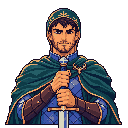
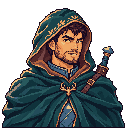
v62: retire Dot, Gliss, Gleam, Ivy, Rue; Tida's first portrait back
Claude-Session: https://claude.ai/code/session_019G5bQC3KGAYpQSZdre1Ejx

diff --git a/js/01-data.js b/js/01-data.js
@@ -214,7 +214,7 @@ HEROES.push(
   {id:'nessa_holt',retired:true,name:'Nessa Holt',fac:'rangers',type:'Might',st:[2,1,1,2],ab:'Trail Surveyor',ad:'+10% movement, and Thornguard +2 defense.',sk:['forcedmarch'],sp:[],fx:{mpPct:10,unitDef:{thorn:2}}},
   {id:'reedcall',name:'Crestwind',fac:'rangers',type:'Might',st:[2,1,1,1],ab:'Resonant Call',ad:'Reedbows +2 shots and +1 damage.',sk:['steadyaim'],sp:[],fx:{unitShots:{reed:2},unitDmgFlat:{reed:1}}},
   {id:'sera_venn',name:'Sera Venn',fac:'wizards',type:'Magic',st:[0,1,2,2],ab:'Bell Mage',ad:'Your whole army +1 morale.',sk:['sorcery'],sp:['rally'],fx:{morale:1}},
-  {id:'gliss',name:'Gliss',fac:'wizards',type:'Magic',st:[0,1,3,2],ab:'Stained-Glass Caster',ad:'Every spell costs 1 less mana.',sk:['arcane'],sp:['chain'],fx:{manaCut:1}},
+  {id:'gliss',retired:true,name:'Gliss',fac:'wizards',type:'Magic',st:[0,1,3,2],ab:'Stained-Glass Caster',ad:'Every spell costs 1 less mana.',sk:['arcane'],sp:['chain'],fx:{manaCut:1}},
   {id:'murmur',tav:true,name:'Hush',fac:'necro',type:'Magic',st:[0,1,2,2],ab:'Veiled Shadow',ad:'Weaken drains 50% more attack, and +1 vision.',sk:['farsight'],sp:['weaken'],fx:{weakenPct:1.5,vision:1}},
   {id:'rattleclaw',name:'Rattleclaw',fac:'necro',type:'Might',st:[2,1,1,1],ab:'Fossil Raptor',ad:'Skeletons +2 attack and +1 speed.',sk:['bladework'],sp:[],fx:{unitAtk:{skeleton:2},unitSpd:{skeleton:1}}},
   {id:'silka',name:'Violet',fac:'centaurs',type:'Magic',st:[0,1,2,2],ab:'Silk Keeper',ad:'Entangle costs half and lasts 1 round longer.',sk:['meditation'],sp:['entangle'],fx:{halfCost:'entangle',entangleExtra:1}},
@@ -233,13 +233,13 @@ HEROES.push(
   {id:'livingston_cyborg',retired:true,name:'Livingston',fac:'elves',type:'Might',st:[2,1,1,2],ab:'Gadgeteer',ad:'Your shooters deal 10% more damage. With his partner Livingston in your party, your whole army +1 morale.',sk:['steadyaim'],sp:[],fx:{rangedPct:0.10,partner:'livingston',partnerMorale:1}},
   {id:'enzo',name:'Enzo',fac:'dwarves',type:'Might',st:[2,2,1,1],ab:'Powered Suit',ad:'Ram Riders +2 attack and +2 defense.',sk:['shieldcraft'],sp:[],fx:{unitAtk:{ramrider:2},unitDef:{ramrider:2}}},
   {id:'axel',tav:true,name:'Axel',fac:'merfolk',type:'Magic',st:[0,1,2,2],ab:'Tide Guide',ad:'Sirens +2 growth per week and +1 speed.',sk:['meditation'],sp:['mend'],fx:{growth:{siren:2},unitSpd:{siren:1}}},
-  {id:'dot',tav:true,name:'Dot',fac:'rangers',type:'Might',st:[2,1,1,2],ab:'Mantis Courier',ad:'+15% movement, and Thornguard +1 attack.',sk:['forcedmarch'],sp:[],fx:{mpPct:15,unitAtk:{thorn:1}}},
+  {id:'dot',retired:true,tav:true,name:'Dot',fac:'rangers',type:'Might',st:[2,1,1,2],ab:'Mantis Courier',ad:'+15% movement, and Thornguard +1 attack.',sk:['forcedmarch'],sp:[],fx:{mpPct:15,unitAtk:{thorn:1}}},
   {id:'gale',tav:true,name:'Gale',fac:'wizards',type:'Magic',st:[0,1,2,2],ab:'Weather Mage',ad:'Earth Elementals +2 defense and +1 speed.',sk:['sorcery'],sp:['squall'],fx:{unitDef:{earthel:2},unitSpd:{earthel:1}}},
   {id:'vera',name:'Vera',fac:'wizards',type:'Might',st:[2,2,1,1],ab:'Rune Shield',ad:'Apprentice Mages +2 attack and +2 defense.',sk:['shieldcraft'],sp:[],fx:{unitAtk:{apprentice:2},unitDef:{apprentice:2}}},
   {id:'remy',name:'Remy',fac:'wizards',type:'Might',st:[3,1,1,1],ab:'Spellblade',ad:'Archmages +2 attack and +1 speed.',sk:['command'],sp:[],fx:{unitAtk:{magus:2},unitSpd:{magus:1}}},
   {id:'ada',tav:true,name:'Ada',fac:'wizards',type:'Might',st:[2,2,1,1],ab:'Owl Knight',ad:'Owl Familiars +2 attack and +2 defense.',sk:['farsight'],sp:[],fx:{unitAtk:{owl:2},unitDef:{owl:2}}},
   {id:'mara',tav:true,name:'Mara',fac:'necro',type:'Might',st:[2,2,1,1],ab:'Gravekeeper',ad:'Zombies +2 attack and +2 defense, and +1 vision.',sk:['farsight'],sp:[],fx:{unitAtk:{zombie:2},unitDef:{zombie:2},vision:1}},
-  {id:'ivy',name:'Ivy',fac:'elves',type:'Might',st:[3,1,1,1],ab:'Archer-Captain',ad:'Longbow Rangers +2 attack and +1 speed.',sk:['steadyaim'],sp:[],fx:{unitAtk:{longbow:2},unitSpd:{longbow:1}}},
+  {id:'ivy',retired:true,name:'Ivy',fac:'elves',type:'Might',st:[3,1,1,1],ab:'Archer-Captain',ad:'Longbow Rangers +2 attack and +1 speed.',sk:['steadyaim'],sp:[],fx:{unitAtk:{longbow:2},unitSpd:{longbow:1}}},
   {id:'lune',name:'Lunt',fac:'elves',type:'Magic',st:[0,1,2,3],ab:'Moon-Singer',ad:'Sprites +2 speed, and your whole army +1 luck.',sk:['meditation'],sp:['mend'],fx:{unitSpd:{sprite:2},luck:1}},
   {id:'hart',tav:true,name:'Hart',fac:'elves',type:'Might',st:[2,2,1,1],ab:'Stag Ranger',ad:'+10% movement, and Giant Eagles +2 attack.',sk:['forcedmarch'],sp:[],fx:{mpPct:10,unitAtk:{eagle:2}}},
   {id:'orla',tav:true,name:'Orla',fac:'dwarves',type:'Magic',st:[0,2,2,2],ab:'Rune Priest',ad:'Gem Golems +2 defense, and Mend heals 50% more.',sk:['meditation'],sp:['mend'],fx:{unitDef:{golem:2},mendPct:1.5}},
@@ -252,10 +252,10 @@ HEROES.push(
   {id:'midge',tav:true,name:'Midge',fac:'rangers',type:'Magic',st:[0,1,2,3],ab:'Moth Dyer',ad:'Moth Seers +2 attack and +1 speed.',sk:['meditation'],sp:['mend'],fx:{unitAtk:{moth:2},unitSpd:{moth:1}}},
   {id:'mags_and_mae',tav:true,name:'Mags & Mae',fac:'wizards',type:'Magic',st:[0,1,3,2],ab:'Twin Astronomers',ad:'Storm Elementals +2 attack and +1 speed.',sk:['arcane'],sp:['swift'],fx:{unitAtk:{stormel:2},unitSpd:{stormel:1}}},
   {id:'bloop',tav:true,name:'Bloop',fac:'wizards',type:'Magic',st:[0,1,2,3],ab:'Fishbowl Sage',ad:'Owl Familiars +3 growth per week and +1 speed.',sk:['learning'],sp:['ember'],fx:{growth:{owl:3},unitSpd:{owl:1}}},
-  {id:'gleam',tav:true,name:'Gleam',fac:'wizards',type:'Magic',st:[0,2,2,2],ab:'Golden Ooze',ad:'+150 gold a day, and Earth Elementals +1 defense.',sk:['estates'],sp:['chain'],fx:{goldDay:150,unitDef:{earthel:1}}},
+  {id:'gleam',retired:true,tav:true,name:'Gleam',fac:'wizards',type:'Magic',st:[0,2,2,2],ab:'Golden Ooze',ad:'+150 gold a day, and Earth Elementals +1 defense.',sk:['estates'],sp:['chain'],fx:{goldDay:150,unitDef:{earthel:1}}},
   {id:'odo_and_otto',tav:true,name:'Odo & Otto',fac:'necro',type:'Might',st:[3,2,0,1],ab:'Two-Headed Undertakers',ad:'Skeletons +2 attack and +2 defense.',sk:['bladework'],sp:[],fx:{unitAtk:{skeleton:2},unitDef:{skeleton:2}}},
   {id:'aster_and_briar',tav:true,name:'Aster & Briar',fac:'elves',type:'Magic',st:[0,2,2,2],ab:'Seed Keepers',ad:'Grove Wardens +3 growth per week and +1 defense.',sk:['meditation'],sp:['mend'],fx:{growth:{dryad:3},unitDef:{dryad:1}}},
-  {id:'rue',tav:true,name:'Rue',fac:'elves',type:'Magic',st:[0,1,2,3],ab:'Sunflower Witch',ad:'Mend heals 50% more, and your whole army +1 luck.',sk:['fortune'],sp:['mend'],fx:{mendPct:1.5,luck:1}},
+  {id:'rue',retired:true,tav:true,name:'Rue',fac:'elves',type:'Magic',st:[0,1,2,3],ab:'Sunflower Witch',ad:'Mend heals 50% more, and your whole army +1 luck.',sk:['fortune'],sp:['mend'],fx:{mendPct:1.5,luck:1}},
   {id:'ned_and_nat',tav:true,name:'Ned & Nat',fac:'dwarves',type:'Might',st:[2,2,1,1],ab:'Twin Stonecutters',ad:'Dwarf Crossbowmen +2 attack and +2 defense.',sk:['shieldcraft'],sp:[],fx:{unitAtk:{bolt:2},unitDef:{bolt:2}}},
   {id:'spike',tav:true,name:'Spike',fac:'dwarves',type:'Might',st:[2,3,0,1],ab:'Porcupine Armorer',ad:'Your whole army +1 defense, and Dwarf Paladins +1 attack.',sk:['shieldcraft'],sp:[],fx:{armyDef:1,unitAtk:{paladin:1}}},
   {id:'rafe_and_reed',tav:true,name:'Rafe & Reed',fac:'pirates',type:'Might',st:[2,1,1,2],ab:'Salvage Captains',ad:'+150 gold a day, and Duelists +1 attack.',sk:['seamanship'],sp:[],fx:{goldDay:150,unitAtk:{duelist:1}}},

diff --git a/CLAUDE.md b/CLAUDE.md
@@ -223,6 +223,10 @@ Everything lives in one object, `S`, so it can be saved as JSON:
 - New ability hooks (player side only): `forgePlus` (extra Great Forge attack), `armyDef` (whole army defense), `rangedPct` (shooter damage), `halfCost` (one spell at half mana), `manaCut` (all spells cheaper), `squallPct`, `weakenPct`.
 - Raised: Ivan (Forge half ore, +1 more attack), Oliver (30% cheaper rough ground, +5% movement), Shadow (harvest 20%), Sheila (Squall +30%), Grimes and Griffiths (+1 speed to their troop). Made distinct: Veyra, Gliss, Silka, Murmur, Boone, Mossback, Aster, Nessa Holt. Trimmed: Schmickle and Quillby to +200 gold a day. Battaglia is a Might hero.
 
+### v62 roster trim
+
+- Retired (art not liked): Dot, Gliss, Gleam, Ivy and Rue. Tida is back to his first portrait (the hooded one from batch 7). Sookie and Tempest upgrades and a three-eyed King Pharoph the 3rd are on `ART_REQUEST_NEXT.md`.
+
 ### v61 Batch 08
 
 - Nine more student heroes (`student:true, tav:true`, after Gerry): Merfolk Teeka (Sirens growth, +1 vision); Beastmasters Python Mage (Boars, +1 luck); Wizards Vash (Archmages, +1 luck); Rangers Anastasia May Dvestia (Reedbows) and Tida (Antler Knights +2 attack, Mend, from the student); Dwarves Babka (Young Dwarves, +1 morale) and Teo (Gem Golems); Necromancers Emirk (Werewolves) and Friendo (Skeletons growth). `RECRUIT_PORT`/`recruits.png` hold 140 portraits.

diff --git a/ART_REQUEST_NEXT.md b/ART_REQUEST_NEXT.md
@@ -26,6 +26,8 @@ Market (scales), Mines (pickaxe), Retreat (running boot/white flag), Haggle (han
 ## 7. Small fixes
 - **Sorcery** skill icon (borrows the spellbook icon).
 - **Inkwake** redraw as a blue ink squid captain.
+- **Sookie** and **Tempest**: upgraded portraits (Tim has these to upload).
+- **King Pharoph the 3rd**: redraw with three eyes (a third eye in the forehead, as "the 3rd").
 - **Lighthouse** as a lit map site (2 frames: dark, lit) so it shows when it has revealed the coast.
 
 ## 8. From the classroom
